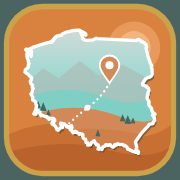
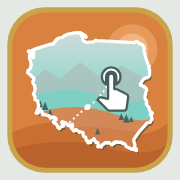
8.18.0: ikona aplikacji = kafelek z dłonią na jasnym tle
Claude-Session: https://claude.ai/code/session_01XxfU2BBoAgyt4jD2QqtG6Y

diff --git a/tools/build_nav_mark.py b/tools/build_nav_mark.py
@@ -18,3 +18,12 @@ out = s[:a] + hand + s[b:]
 out = out.replace("</svg>", style + "</svg>", 1)
 (ROOT / "assets/brand-mark-nav.svg").write_text(out, encoding="utf-8")
 print("OK: assets/brand-mark-nav.svg (dłoń zamiast pinezki)")
+
+# 8.18.0 (decyzja właściciela 2026-11-24): ikona PWA = ten sam kafelek z dłonią na jasnym tle szałwii,
+# bez ciemnego kwadratu i bez animacji (statyczna grafika ekranu głównego; iOS sam zaokrągla rogi).
+inner = out[out.index(">", out.index("<svg")) + 1: out.rindex("</svg>")]
+inner = inner[:inner.index("<style>")] if "<style>" in inner else inner
+icon = ('<svg xmlns="http://www.w3.org/2000/svg" viewBox="0 0 512 512" role="img" aria-label="I Was Here app icon">\n'
+        '<rect width="512" height="512" fill="#E4E9E6"/><g transform="translate(16 16) scale(2.4)">' + inner + '</g>\n</svg>\n')
+(ROOT / "icon.svg").write_text(icon, encoding="utf-8")
+print("OK: icon.svg (kafelek z dłonią na jasnym tle)")

diff --git a/DECYZJE_PROJEKTOWE.md b/DECYZJE_PROJEKTOWE.md
@@ -144,3 +144,7 @@ Jeśli nowe polecenie przeczy temu plikowi, wygrywa nowsze polecenie właścicie
 - Bez AI i bez kluczy API: planowanie liczy się w przeglądarce na naszych danych. Nie pokazujemy ocen gwiazdkowych ani zdjęć z Google — zostaje redakcyjna wartość wizyty 1–5 i uczciwe etykiety (szacunkowe czasy, współrzędne orientacyjne).
 - Kolory dni: morski, pomarańczowy, błękitny, żółty, malinowy, zielony, granatowy (paleta „kulki na torze”). Wejście z zakładki Plany Atlasu; dolne menu bez zmian.
 
+## 18. Ikona aplikacji i kafelek mapy w menu (8.18.0, decyzja właściciela 2026-11-24)
+- Kafelek mapy Polski: **płaskie pomarańczowe tło** `#D9813F` ze stylizowanym słońcem i wzgórzami, **jedna płaska złota ramka** `#C9A24A` — bez gradientu tła i bez dodatkowego pierścienia CSS.
+- **Ikona aplikacji (PWA) = ten sam kafelek z dłonią „kliknij”** na jasnym tle `#E4E9E6`, bez ciemnego kwadratu (`tools/build_nav_mark.py` zapisuje `icon.svg`).
+

diff --git a/CHANGELOG.md b/CHANGELOG.md
@@ -7,6 +7,7 @@
 - **Warstwy, +, − w pionowej kolumnie po prawej**; kadr całej Polski zostawia miejsce na kolumnę (`viewWindow` w `atlas.js`).
 - Mapa Polski w menu: **jedna ramka** (płaska złota ramka kafelka), bez dodatkowego pierścienia CSS; tło kafelka **płaskie pomarańczowe ze stylizowanym słońcem i wzgórzami** zamiast gradientu (`build_logo.py`).
 - Pełne, kryjące tła nagłówka, pasa miast, menu i planera — bez gradientów przejścia w przezroczystość i bez rozmycia tła.
+- **Ikona aplikacji = kafelek z dłonią z menu** (decyzja właściciela 2026-11-24) na jasnym tle szałwii `#E4E9E6`, bez ciemnego kwadratu; generuje ją `tools/build_nav_mark.py` (uruchamiać po `build_logo.py`).
 - Logo, kafelek mapy i ikona PWA przegenerowane. Cache `i-was-here-v8-18-0-20261124`, `APP_VERSION` 8.18.0.
 
 ## 8.17.0 — Motyw „Safari” (2026-11-24)
